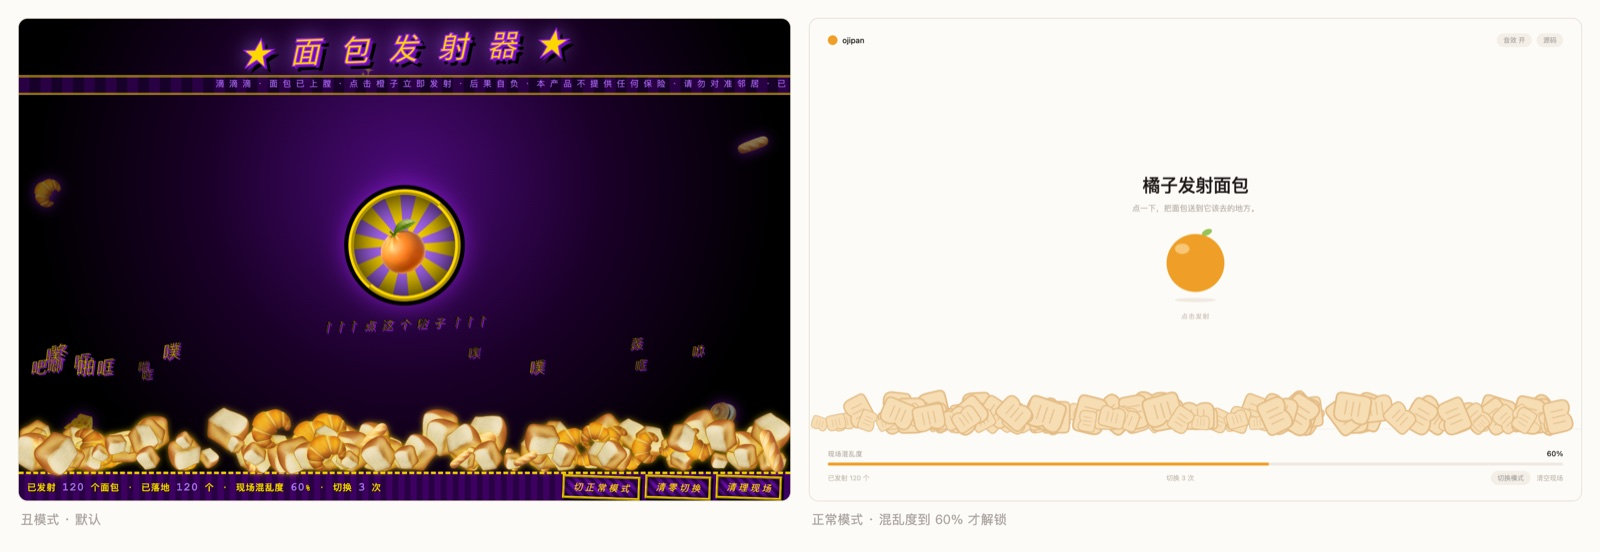
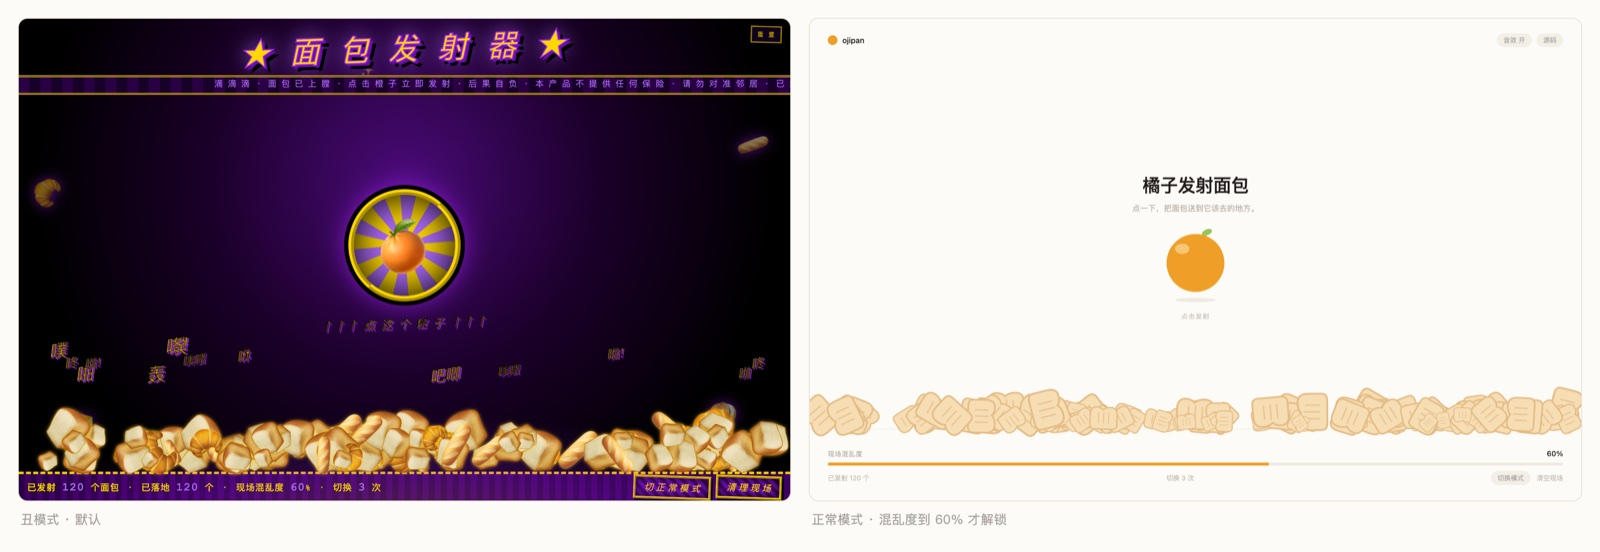
perf: 丑版去掉逐面包 drop-shadow 与 will-change，帧率 5→60；清零改为右上角重置

diff --git a/index.html b/index.html
@@ -95,6 +95,17 @@
     box-shadow:3px 3px 0 #000, inset 0 0 14px #000;
     transform:rotate(2deg);white-space:nowrap;
   }
+  .ugly-mini{
+    position:fixed;right:14px;top:12px;z-index:60;
+    font-family:"Courier New",monospace;font-size:10px;font-weight:bold;letter-spacing:.12em;
+    color:#ffd700;background:#1a0033;border:2px solid #ffd700;
+    padding:5px 9px;cursor:pointer;transform:rotate(1.6deg);opacity:.62;
+    box-shadow:2px 2px 0 #000;
+  }
+  .ugly-mini:hover{opacity:1;transform:rotate(-2deg) scale(1.06);color:#fff;}
+  @media (max-width:560px){
+    .ugly-mini{font-size:9px;padding:4px 6px;letter-spacing:0;opacity:.8;}
+  }
   .ugly-btn:hover{transform:rotate(-3deg) scale(1.08);color:#fff;}
   .ugly-btn:active{transform:translate(2px,2px) rotate(1deg);box-shadow:none;}
 
@@ -160,13 +171,23 @@
 
   /* ---------- 共用层 ---------- */
   #sky{position:fixed;inset:0;pointer-events:none;z-index:4;overflow:hidden;}
-  .bread{position:absolute;line-height:1;will-change:left,top,transform;transform-origin:50% 50%;}
+  .bread{position:absolute;line-height:1;transform-origin:50% 50%;}
   .bread .bd-e{display:block;}
   .bread svg{display:none;}
-  body.mode-ugly .bread{
-    filter:drop-shadow(0 0 10px rgba(255,215,0,.85)) drop-shadow(0 0 22px rgba(160,32,240,.6));
+  body.mode-ugly .bread{filter:none;}
+  body.mode-ugly .bd-e{
+    text-shadow:0 0 6px rgba(255,215,0,.9), 0 0 15px rgba(160,32,240,.65);
   }
-  body.mode-ugly .bread.rest{filter:drop-shadow(0 0 5px rgba(255,215,0,.5));}
+  body.mode-ugly .bread.rest .bd-e{
+    text-shadow:0 0 6px rgba(255,215,0,.55);
+  }
+  /* 一条静态的金紫氛围光带，比给两百个节点各挂一层模糊便宜太多 */
+  body.mode-ugly #sky::before{
+    content:'';position:absolute;left:0;right:0;bottom:0;height:280px;
+    background:radial-gradient(ellipse 72% 105% at 50% 128%,
+      rgba(255,215,0,.20), rgba(160,32,240,.20) 46%, rgba(160,32,240,0) 76%);
+    pointer-events:none;
+  }
   body.mode-clean .bread.rest{filter:none;}
   body.mode-clean .bread{
     filter:drop-shadow(0 2px 3px rgba(28,25,23,.10));
@@ -257,6 +278,7 @@
   <h1 id="title">★ 面 包 发 射 器 ★</h1>
   <div id="ticker"><span>滴 滴 滴 ・ 面 包 已 上 膛 ・ 点 击 橙 子 立 即 发 射 ・ 后 果 自 负 ・ 本 产 品 不 提 供 任 何 保 险 ・ 请 勿 对 准 邻 居 ・ 已 经 报 警 了 也 没 用 ・</span></div>
 
+  <button id="btn-reset-all" class="ugly-mini" title="回到最开始的状态">重 置</button>
   <div id="orange">🍊</div>
   <div id="hint">↑↑↑ 点 这 个 橙 子 ↑↑↑</div>
 
@@ -270,7 +292,6 @@
     <div id="stats">已发射 <b id="n1">0</b> 个面包 ・ 已落地 <b id="n2">0</b> 个 ・ 现场混乱度 <b id="n3">0</b>% ・ 切换 <b id="n4">0</b> 次</div>
     <div class="bar-btns">
       <button id="btn-switch" class="ugly-btn" style="display:none">切 正 常 模 式</button>
-      <button id="btn-reset-switch" class="ugly-btn" style="display:none">清 零 切 换</button>
       <button id="reset" class="ugly-btn">清 理 现 场</button>
     </div>
   </div>
@@ -339,7 +360,7 @@
   var modal = document.getElementById('modal');
   var veil = document.getElementById('veil');
   var btnSwitch = document.getElementById('btn-switch');
-  var btnResetSwitch = document.getElementById('btn-reset-switch');
+  var btnResetAll = document.getElementById('btn-reset-all');
   var n4 = document.getElementById('n4');
   var cSwitch = document.getElementById('c-switch');
   var cSwitchCount = document.getElementById('c-switch-count');
@@ -357,10 +378,10 @@
   var everSwitched = false;
   var declined = false;   // 第一次弹窗选了「不换」，从此也算解锁
   var cleanVisits = 0;    // 进过几次正常模式，第二次起才给回程按钮
-  var backFromClean = false;
   var switching = false;
   var SNAP = false;
   var items = [];
+  var MAX_BREADS = 280;   // 再往上加只会重叠，纯烧显卡
   var launched = 0, landed = 0;
   var gen = 0;
   var W = 0, H = 0, GY = 0;
@@ -414,6 +435,11 @@
   }
 
   function shot(ox, oy, power) {
+    if (items.length >= MAX_BREADS) {
+      for (var k = 0; k < items.length; k++) {
+        if (items[k].dead) { items[k].el.remove(); items.splice(k, 1); break; }
+      }
+    }
     var size = 28 + Math.random() * 44;
     var angle = (-155 + Math.random() * 130) * Math.PI / 180;
     var sp = power || (13 + Math.random() * 15);
@@ -470,7 +496,6 @@
     cCount.textContent = '已发射 ' + launched + ' 个';
     cSwitchCount.textContent = '切换 ' + switchCount + ' 次';
     btnSwitch.style.display = (everSwitched || declined) ? 'inline-block' : 'none';
-    btnResetSwitch.style.display = backFromClean ? 'inline-block' : 'none';
     cSwitch.style.display = cleanVisits >= 2 ? 'inline-block' : 'none';
   }
 
@@ -566,13 +591,14 @@
     requestAnimationFrame(loop);
   }
 
-  function switchMode(to, cb) {
+  function switchMode(to, cb, silent) {
     if (switching || to === mode) return;
     switching = true;
-    switchCount++;
-    everSwitched = true;
-    if (to === 'clean') cleanVisits++;
-    if (to === 'ugly') backFromClean = true;
+    if (!silent) {
+      switchCount++;
+      everSwitched = true;
+      if (to === 'clean') cleanVisits++;
+    }
     veil.className = 'on ' + (to === 'clean' ? 'veil-light' : 'veil-dark');
     setTimeout(function () {
       mode = to;
@@ -659,10 +685,16 @@
   btnSwitch.addEventListener('click', function () { switchMode('clean'); });
   cSwitch.addEventListener('click', function () { switchMode('ugly'); });
 
-  btnResetSwitch.addEventListener('click', function () {
+  btnResetAll.addEventListener('click', function () {
+    modal.classList.remove('show');
     switchCount = 0;
+    everSwitched = false;
+    declined = false;
+    cleanVisits = 0;
+    clearAll();
+    if (mode !== 'ugly') switchMode('ugly', null, true);
     syncUI();
-    blip(520);
+    blip(200);
   });
 
   document.getElementById('c-sound').addEventListener('click', function () {
@@ -692,7 +724,7 @@
     paint();
     if (QS.get('ui') === 'full') {
       switchCount = 3; everSwitched = true; declined = true;
-      cleanVisits = 2; backFromClean = true;
+      cleanVisits = 2;
     }
     syncUI();
     if (QS.get('modal')) modal.classList.add('show');

diff --git a/README.md b/README.md
@@ -32,7 +32,7 @@ python3 -m http.server 8000
 | 之后 | 点「切换模式」/「切正常模式」 | 想怎么翻怎么翻，每翻一次切换次数 +1 |
 | 两个模式互切 | — | 地上的面包一律清空，混乱度归零，重新开始积累 |
 
-切换次数在两侧底栏都显示。「清零切换」只在第一次从正常模式切回来之后才出现，按下去计数归零。
+切换次数在两侧底栏都显示。丑版右上角那个小「重置」按下去，一切回到刚打开页面的样子——面包清空、计数归零、切换次数归零、底栏入口重新藏起来，下一轮又只能走弹窗。
 
 ## 怎么玩
 
@@ -40,8 +40,8 @@ python3 -m http.server 8000
 | --- | --- |
 | 点橘子 | 一次发射 4~7 个面包 |
 | 等它落地 | 弹两下停住；丑模式下顺手甩一句「咚」「啪」「吧唧」 |
-| 清空现场 | 清空面包，计数和触发标记一起归零，切换次数不动 |
-| 清零切换 | 把切换次数按回 0 |
+| 清空现场 | 只清面包和计数，切换次数、已解锁的入口都保留 |
+| 重置 | 右上角小按钮，回到最开始的状态：面包、计数、切换次数、入口全部归零 |
 
 混乱度按落地面包数算，1 个算 0.5 点：200 个满 100%，120 个到 60%。
 
@@ -61,7 +61,8 @@ python3 -m http.server 8000
 - 面包只落在屏幕底部，天花板不接客。
 - 窄屏能跑但没有专门适配，手机上橘子显得特别大。
 - 正常模式的面包停在一条线上，不会互相堆叠。
-- 面包堆到两百个时，丑版的紫色光晕会退化成一圈小光，纯粹为了不掉帧。
+- 同屏面包上限 280 个，再点只涨计数不涨数量，纯粹为了不掉帧。
+- 丑版的金紫光晕不是给每个面包挂 `drop-shadow`，那样两百多个节点会掉到 5fps。现在面包用 `text-shadow` 发光，地上的光晕是一条静态径向渐变。
 
 ## License
 
